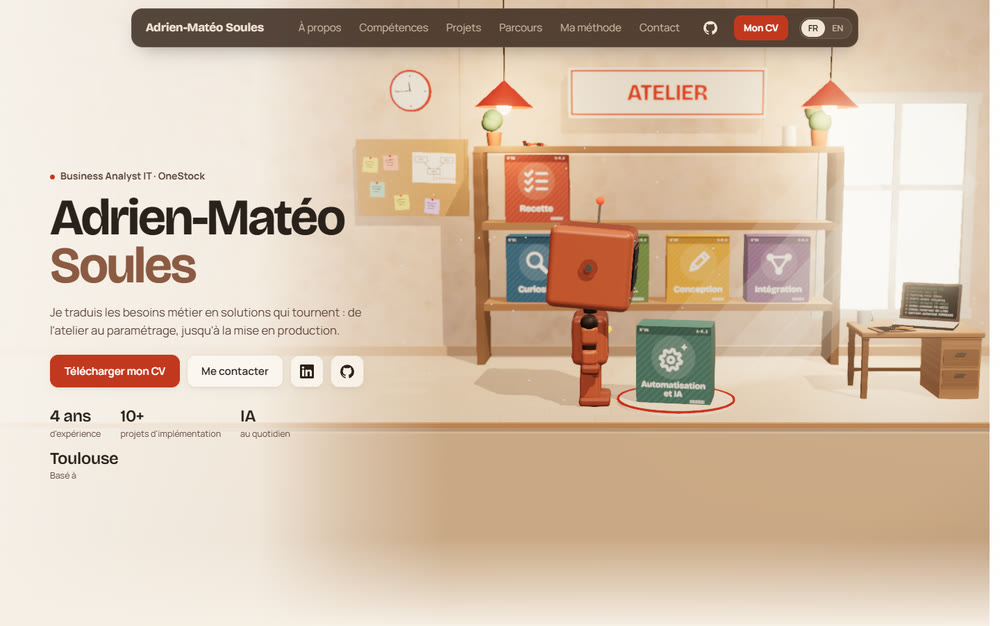
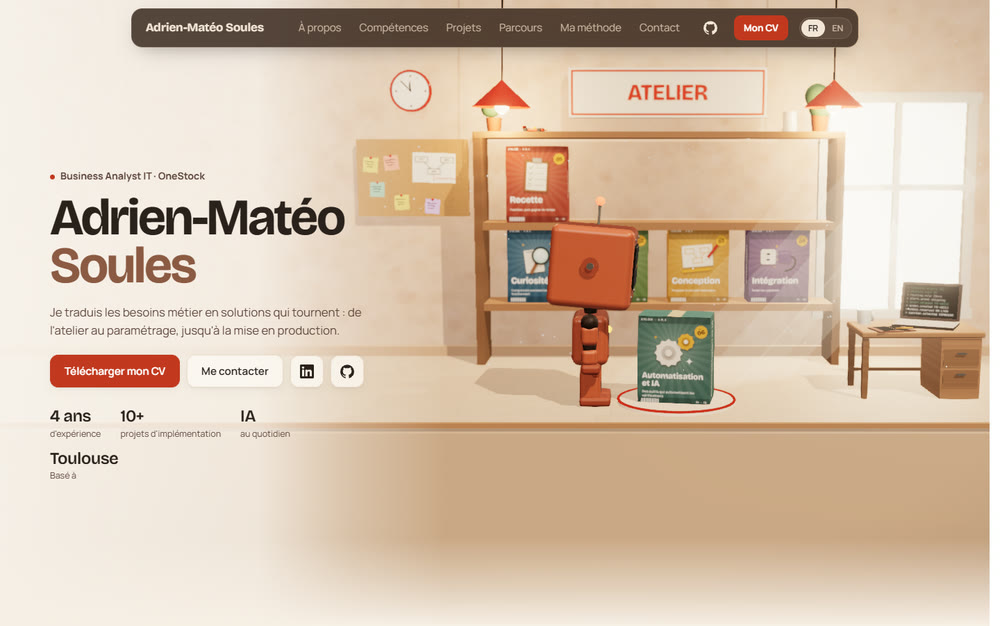
Accueil 3D : les boîtes-mots deviennent de vrais emballages
- Boîte plus haute (0,6 × 0,74 × 0,36) : face illustrée, tranche avec
  le nom à la verticale, dessus avec rabats et ruban kraft, grain de
  carton.
- 8 illustrations pleines (loupe, cible, plan, prise, porte-bloc,
  engrenages, bulles, mallette et code), rayons, badge « N°0x »,
  bandeau « ATELIER · A-M.S », code-barres.
- Une phrase sous chaque mot (hero.wordTags, FR/EN), reprise des
  textes existants du site.
- Étagère et plateau du haut remontés pour les boîtes plus hautes.
- Skill « atelier 3D » et images de partage mis à jour.

Changed region(s): [[0.465, 0.0911, 0.868, 0.6677], [0.868, 0.5767, 0.899, 0.607], [0.589, 0.3035, 0.62, 0.3339]]

diff --git a/js/comptoir.js b/js/comptoir.js
@@ -15,6 +15,8 @@ import { RectAreaLightUniformsLib } from "three/addons/lights/RectAreaLightUnifo
 const section = document.getElementById("top"), stage = document.getElementById("comptoir-stage"), copy = document.getElementById("comptoir-copy");
 const words = () => window.CONTENT[document.documentElement.lang === "en" ? "en" : "fr"].hero.words;
 let WORDS = words();
+const tags = () => window.CONTENT[document.documentElement.lang === "en" ? "en" : "fr"].hero.wordTags;
+let TAGS = tags();
 /* palette « Abricot » de la scène */
 const P = {
   bg: "#EBC9AE", hemi: ["#FFE7D2", "#B08A6C", .85], sun: ["#FFE2C4", 2.4], fill: "#F6C9AE", exposure: .95,
@@ -90,41 +92,6 @@ function wrap(ctx, text, maxW) {
 }
 const shade = (hex, k) => "#" + new THREE.Color(hex).multiplyScalar(k).getHexString();
 
-/* un pictogramme par mot, dessiné au trait blanc (même ordre que WORDS) */
-function drawIcon(ctx, i, cx, cy, s) {
-  ctx.save(); ctx.translate(cx, cy); ctx.scale(s / 100, s / 100);
-  ctx.strokeStyle = ctx.fillStyle = "#fff"; ctx.lineWidth = 9; ctx.lineCap = ctx.lineJoin = "round";
-  const P = () => ctx.beginPath(), dot = (x, y, r) => { P(); ctx.arc(x, y, r, 0, Math.PI * 2); ctx.fill(); };
-  if (i === 0) { /* curiosité : une loupe */
-    P(); ctx.arc(-10, -10, 28, 0, Math.PI * 2); ctx.stroke();
-    ctx.lineWidth = 15; P(); ctx.moveTo(11, 11); ctx.lineTo(38, 38); ctx.stroke();
-  } else if (i === 1) { /* cadrage : les coins du cadre et le point visé */
-    for (const [sx, sy] of [[-1, -1], [1, -1], [1, 1], [-1, 1]]) { P(); ctx.moveTo(sx * 42, sy * 16); ctx.lineTo(sx * 42, sy * 42); ctx.lineTo(sx * 16, sy * 42); ctx.stroke(); }
-    dot(0, 0, 10);
-  } else if (i === 2) { /* conception : un crayon */
-    ctx.rotate(Math.PI / 4);
-    P(); ctx.rect(-13, -44, 26, 62); ctx.stroke();
-    P(); ctx.moveTo(-13, 18); ctx.lineTo(0, 44); ctx.lineTo(13, 18); ctx.stroke();
-    P(); ctx.moveTo(-13, -28); ctx.lineTo(13, -28); ctx.stroke();
-  } else if (i === 3) { /* intégration : trois systèmes reliés */
-    const n = [[-36, -22], [36, -22], [0, 34]];
-    P(); n.forEach(([x, y], k) => (k ? ctx.lineTo(x, y) : ctx.moveTo(x, y))); ctx.closePath(); ctx.stroke();
-    n.forEach(([x, y]) => dot(x, y, 14));
-  } else if (i === 4) { /* recette : une liste cochée */
-    for (let k = 0; k < 3; k++) { const y = -30 + k * 30; P(); ctx.moveTo(-42, y); ctx.lineTo(-32, y + 9); ctx.lineTo(-16, y - 9); ctx.stroke(); P(); ctx.moveTo(2, y); ctx.lineTo(42, y); ctx.stroke(); }
-  } else if (i === 5) { /* automatisation et IA : un engrenage et une étincelle */
-    P(); for (let k = 0; k < 32; k++) { const a = (k + .5) * Math.PI / 16, r = [36, 36, 26, 26][k % 4]; const x = -8 + Math.cos(a) * r, y = 8 + Math.sin(a) * r; k ? ctx.lineTo(x, y) : ctx.moveTo(x, y); } ctx.closePath(); ctx.stroke();
-    P(); ctx.arc(-8, 8, 10, 0, Math.PI * 2); ctx.stroke();
-    P(); ctx.moveTo(36, -52); ctx.quadraticCurveTo(36, -36, 52, -36); ctx.quadraticCurveTo(36, -36, 36, -20); ctx.quadraticCurveTo(36, -36, 20, -36); ctx.quadraticCurveTo(36, -36, 36, -52); ctx.fill();
-  } else if (i === 6) { /* accompagnement : deux personnes côte à côte */
-    for (const [x, r, w] of [[-20, 15, 27], [22, 12, 22]]) { P(); ctx.arc(x, -16, r, 0, Math.PI * 2); ctx.stroke(); P(); ctx.arc(x, 38, w, Math.PI, 0); ctx.stroke(); }
-  } else { /* métier et technique : une mallette et des accolades */
-    P(); ctx.rect(-50, -8, 46, 36); ctx.stroke();
-    P(); ctx.moveTo(-37, -8); ctx.lineTo(-37, -20); ctx.lineTo(-17, -20); ctx.lineTo(-17, -8); ctx.stroke();
-    ctx.font = '600 66px "JetBrains Mono"'; ctx.textAlign = "center"; ctx.textBaseline = "middle"; ctx.fillText("{}", 28, 10);
-  }
-  ctx.restore();
-}
 
 /* ---------- décor : comptoir et étagère en bois clair ---------- */
 /* le dessus du comptoir en parquet clair */
@@ -145,7 +112,7 @@ const grain = HQ ? canvasTex(256, 256, (ctx, W, H) => { ctx.fillStyle = "#fff"; 
 if (grain) { grain.redraw(); grain.wrapS = grain.wrapT = THREE.RepeatWrapping; grain.repeat.set(2, 1); }
 const wood = std(P.wood[0], { roughness: .6, map: grain }), woodDark = std(P.wood[1], { map: grain });
 for (const y of BOARDS) mesh(new THREE.BoxGeometry(3.5, .07, .5), wood, 1.65, y - .035, SHELF_Z);
-for (const x of [-.12, 3.42]) mesh(new THREE.BoxGeometry(.08, 2.1, .5), woodDark, x, 1.05, SHELF_Z);
+for (const x of [-.12, 3.42]) mesh(new THREE.BoxGeometry(.08, 2.3, .5), woodDark, x, 1.15, SHELF_Z);
 const PAD = new THREE.Vector3(1.75, .015, .9);
 mesh(new THREE.CylinderGeometry(.48, .5, .03, 48), std(P.pad), PAD.x, .015, PAD.z);
 const ring = new THREE.Mesh(new THREE.TorusGeometry(.49, .012, 8, 64), new THREE.MeshBasicMaterial({ color: P.accent }));
@@ -169,7 +136,7 @@ mesh(new THREE.BoxGeometry(30, .3, .06), std(P.base), 1, -.05, WALL_Z + .03);
 
 const potMat = std(P.pot), leafMat = std(P.leaf, { roughness: .8 }), glassMat = std(P.jar, { roughness: .15, transparent: true, opacity: .7 });
 /* plateau en haut de l'étagère des mots, contre le mur : plantes et bocal (la F1 s'y cache aussi) */
-const TOP_Y = 2.1;
+const TOP_Y = 2.24; /* au-dessus des boîtes du rang du haut (1,42 + 0,74) */
 mesh(new THREE.BoxGeometry(3.6, .06, .52), wood, 1.65, TOP_Y + .03, SHELF_Z);
 function plant(x, s = 1) {
   mesh(new THREE.CylinderGeometry(.08 * s, .065 * s, .14 * s, 16), potMat, x, TOP_Y + .06 + .07 * s, SHELF_Z);
@@ -219,28 +186,127 @@ const lamps = [.2, 3.3].map(x => {
 });
 
 /* ---------- les boîtes-mots ---------- */
-const BOX = { w: .62, h: .66, d: .38 };
+/* ---------- emballages des boîtes-mots : illustration, badge, rayons, grain de carton ---------- */
+function cardGrain(ctx, W, H, a = .05) { for (let k = 0; k < W * H / 90; k++) { ctx.fillStyle = Math.random() < .5 ? `rgba(255,255,255,${a})` : `rgba(0,0,0,${a})`; ctx.fillRect(Math.random() * W, Math.random() * H, 1.5, 1.5); } }
+function sunburst(ctx, cx, cy, r, n, col) { ctx.save(); ctx.fillStyle = col; for (let k = 0; k < n; k++) { const a = k / n * Math.PI * 2; ctx.beginPath(); ctx.moveTo(cx, cy); ctx.arc(cx, cy, r, a, a + Math.PI / n); ctx.closePath(); ctx.fill(); } ctx.restore(); }
+function badge(ctx, x, y, r, n) {
+  ctx.save(); ctx.translate(x, y); ctx.rotate(-.22);
+  ctx.beginPath(); for (let k = 0; k < 32; k++) { const a = k / 32 * Math.PI * 2, rr = k % 2 ? r * .9 : r; ctx.lineTo(Math.cos(a) * rr, Math.sin(a) * rr); } ctx.closePath();
+  ctx.fillStyle = "#F0B429"; ctx.shadowColor = "rgba(0,0,0,.25)"; ctx.shadowBlur = 8; ctx.shadowOffsetY = 3; ctx.fill(); ctx.shadowColor = "transparent";
+  ctx.fillStyle = "#2A211C"; ctx.textAlign = "center"; ctx.textBaseline = "middle";
+  ctx.font = '600 15px "JetBrains Mono"'; ctx.fillText("N°", 0, -r * .38);
+  ctx.font = '800 44px "Bricolage Grotesque"'; ctx.fillText(String(n).padStart(2, "0"), 0, r * .12);
+  ctx.restore();
+}
+function sparkle(ctx, x, y, r, col = "#F0B429") { ctx.fillStyle = col; ctx.beginPath(); ctx.moveTo(x, y - r * 2); ctx.quadraticCurveTo(x, y, x + r * 2, y); ctx.quadraticCurveTo(x, y, x, y + r * 2); ctx.quadraticCurveTo(x, y, x - r * 2, y); ctx.quadraticCurveTo(x, y, x, y - r * 2); ctx.fill(); }
+
+/* une illustration par mot, dans l'ordre de hero.words : objets pleins, ombres portées, palette abricot */
+function illus(ctx, i, cx, cy, s, color) {
+  ctx.save(); ctx.translate(cx, cy); ctx.scale(s, s);
+  const ink = "#2A211C", cream = "#FBF3E6", wood = "#9C6B45", woodDark = "#6E4A30", yellow = "#F0B429", brick = "#C2381F", sage = "#7FAF8A", steel = "#B9B3AA";
+  const shadow = () => { ctx.shadowColor = "rgba(30,15,5,.35)"; ctx.shadowBlur = 18; ctx.shadowOffsetY = 10; }, flat = () => { ctx.shadowColor = "transparent"; };
+  const rr = (x, y, w, h, r, c) => { ctx.fillStyle = c; ctx.beginPath(); ctx.roundRect(x, y, w, h, r); ctx.fill(); };
+  const lines = (x, y, n, w, gap, c) => { ctx.fillStyle = c; for (let k = 0; k < n; k++) ctx.fillRect(x, y + k * gap, k % 3 === 2 ? w * .6 : w, 4); };
+  if (i === 0) { /* curiosité : une loupe sur une feuille de notes */
+    ctx.save(); ctx.rotate(-.12); shadow(); rr(-120, -70, 170, 210, 6, cream); flat(); lines(-100, -40, 8, 130, 22, "rgba(90,64,56,.35)"); ctx.fillStyle = color; ctx.fillRect(-100, -58, 60, 8); ctx.restore();
+    ctx.save(); ctx.translate(30, -10); ctx.rotate(.5);
+    shadow(); rr(-14, 70, 28, 120, 14, wood); flat(); ctx.fillStyle = woodDark; ctx.fillRect(-16, 70, 32, 16);
+    shadow(); ctx.fillStyle = ink; ctx.beginPath(); ctx.arc(0, 0, 82, 0, Math.PI * 2); ctx.fill(); flat();
+    const g = ctx.createRadialGradient(-22, -22, 8, 0, 0, 72); g.addColorStop(0, "#FFFFFF"); g.addColorStop(.6, "#E4F2EE"); g.addColorStop(1, "#BFDCD5");
+    ctx.fillStyle = g; ctx.beginPath(); ctx.arc(0, 0, 68, 0, Math.PI * 2); ctx.fill();
+    ctx.strokeStyle = "rgba(255,255,255,.95)"; ctx.lineWidth = 9; ctx.lineCap = "round"; ctx.beginPath(); ctx.arc(0, 0, 50, Math.PI * 1.1, Math.PI * 1.45); ctx.stroke();
+    ctx.restore();
+    sparkle(ctx, -130, -110, 9); sparkle(ctx, 120, -120, 6); sparkle(ctx, 140, 40, 7);
+  } else if (i === 1) { /* cadrage : une cible et une fléchette, dans un cadre de visée */
+    shadow(); for (const [r, c] of [[110, cream], [84, color], [60, cream], [36, brick], [14, cream]]) { ctx.fillStyle = c; ctx.beginPath(); ctx.arc(0, 0, r, 0, Math.PI * 2); ctx.fill(); if (r === 110) flat(); }
+    ctx.save(); ctx.rotate(-.75); shadow(); ctx.fillStyle = wood; ctx.fillRect(-4, -150, 8, 140); flat();
+    ctx.fillStyle = brick; ctx.beginPath(); ctx.moveTo(0, -150); ctx.lineTo(-22, -185); ctx.lineTo(0, -172); ctx.lineTo(22, -185); ctx.closePath(); ctx.fill(); ctx.restore();
+    ctx.strokeStyle = cream; ctx.lineWidth = 10; ctx.lineCap = "round";
+    for (const [sx, sy] of [[-1, -1], [1, -1], [1, 1], [-1, 1]]) { ctx.beginPath(); ctx.moveTo(sx * 150, sy * 100); ctx.lineTo(sx * 150, sy * 150); ctx.lineTo(sx * 100, sy * 150); ctx.stroke(); }
+  } else if (i === 2) { /* conception : un plan dessiné, une règle et un crayon */
+    ctx.save(); ctx.rotate(-.08); shadow(); rr(-150, -110, 280, 200, 6, cream); flat();
+    ctx.strokeStyle = color; ctx.lineWidth = 6; ctx.fillStyle = "rgba(0,0,0,0)";
+    for (const [x, y] of [[-120, -80], [20, -80], [-50, 10]]) { ctx.strokeRect(x, y, 80, 46); }
+    ctx.beginPath(); ctx.moveTo(-40, -34); ctx.lineTo(-20, 10); ctx.moveTo(60, -34); ctx.lineTo(20, 10); ctx.stroke(); ctx.restore();
+    ctx.save(); ctx.translate(-10, 120); ctx.rotate(-.1); shadow(); rr(-140, -14, 260, 28, 4, yellow); flat(); ctx.fillStyle = woodDark; for (let k = 0; k < 16; k++) ctx.fillRect(-130 + k * 16, -14, 3, k % 2 ? 10 : 16); ctx.restore();
+    ctx.save(); ctx.translate(120, -40); ctx.rotate(.65); shadow(); rr(-12, -110, 24, 170, 4, brick); flat(); rr(-12, -128, 24, 20, 6, "#F4A7A0"); ctx.fillStyle = cream; ctx.beginPath(); ctx.moveTo(-12, 60); ctx.lineTo(0, 92); ctx.lineTo(12, 60); ctx.fill(); ctx.fillStyle = ink; ctx.beginPath(); ctx.moveTo(-4, 82); ctx.lineTo(0, 92); ctx.lineTo(4, 82); ctx.fill(); ctx.restore();
+  } else if (i === 3) { /* intégration : une prise branchée sur son socle, et l'étincelle du contact */
+    shadow(); rr(-170, -70, 140, 140, 22, cream); flat(); ctx.fillStyle = ink; for (const y of [-26, 26]) { ctx.beginPath(); ctx.roundRect(-118, y - 9, 34, 18, 6); ctx.fill(); }
+    ctx.strokeStyle = ink; ctx.lineWidth = 14; ctx.lineCap = "round"; ctx.beginPath(); ctx.moveTo(110, 0); ctx.bezierCurveTo(170, 0, 170, 120, 60, 130); ctx.stroke();
+    shadow(); rr(-12, -56, 120, 112, 20, color); flat(); ctx.fillStyle = steel; for (const y of [-26, 26]) ctx.fillRect(-34, y - 6, 28, 12);
+    ctx.fillStyle = "rgba(255,255,255,.25)"; ctx.fillRect(10, -40, 80, 10);
+    sparkle(ctx, -24, -96, 11); sparkle(ctx, -40, 90, 7);
+  } else if (i === 4) { /* recette : un porte-bloc et sa liste cochée */
+    ctx.save(); ctx.rotate(.06); shadow(); rr(-110, -140, 220, 290, 14, wood); flat(); rr(-92, -112, 184, 246, 4, cream);
+    shadow(); rr(-42, -156, 84, 40, 10, steel); flat();
+    for (let k = 0; k < 4; k++) { const y = -70 + k * 52; ctx.strokeStyle = k === 3 ? "rgba(90,64,56,.35)" : sage; ctx.lineWidth = 9; ctx.lineCap = "round"; ctx.lineJoin = "round";
+      if (k < 3) { ctx.beginPath(); ctx.moveTo(-70, y); ctx.lineTo(-56, y + 14); ctx.lineTo(-34, y - 12); ctx.stroke(); } else { ctx.strokeRect(-72, y - 12, 26, 26); }
+      ctx.fillStyle = "rgba(90,64,56,.4)"; ctx.fillRect(-14, y - 2, k % 2 ? 80 : 100, 6); }
+    ctx.restore();
+  } else if (i === 5) { /* automatisation et IA : deux engrenages et une étincelle */
+    const gear = (x, y, r, teeth, c) => { ctx.save(); ctx.translate(x, y); ctx.fillStyle = c; ctx.beginPath();
+      for (let k = 0; k < teeth * 2; k++) { const a = k / (teeth * 2) * Math.PI * 2, rad = k % 2 ? r : r * 1.18; ctx.lineTo(Math.cos(a) * rad, Math.sin(a) * rad); } ctx.closePath(); ctx.fill();
+      ctx.fillStyle = "rgba(0,0,0,.15)"; ctx.beginPath(); ctx.arc(0, 0, r * .62, 0, Math.PI * 2); ctx.fill(); ctx.fillStyle = cream; ctx.beginPath(); ctx.arc(0, 0, r * .3, 0, Math.PI * 2); ctx.fill(); ctx.restore(); };
+    shadow(); gear(-40, 20, 92, 12, cream); flat(); shadow(); gear(92, -70, 56, 9, yellow); flat();
+    sparkle(ctx, 120, 80, 16, "#FFFFFF"); sparkle(ctx, -140, -100, 9);
+  } else if (i === 6) { /* accompagnement : une conversation, deux bulles */
+    shadow(); rr(-170, -110, 220, 130, 30, cream); flat(); ctx.fillStyle = cream; ctx.beginPath(); ctx.moveTo(-120, 18); ctx.lineTo(-140, 70); ctx.lineTo(-80, 18); ctx.fill();
+    lines(-140, -76, 3, 150, 28, "rgba(90,64,56,.35)");
+    shadow(); rr(-40, 0, 210, 120, 30, yellow); flat(); ctx.fillStyle = yellow; ctx.beginPath(); ctx.moveTo(120, 118); ctx.lineTo(150, 165); ctx.lineTo(80, 118); ctx.fill();
+    ctx.fillStyle = ink; for (const x of [25, 65, 105]) { ctx.beginPath(); ctx.arc(x, 60, 11, 0, Math.PI * 2); ctx.fill(); }
+  } else { /* métier et technique : une mallette et un écran de code */
+    ctx.save(); ctx.rotate(.05); shadow(); rr(-30, -150, 200, 150, 12, ink); flat(); rr(-18, -138, 176, 126, 6, "#3A2A22");
+    ctx.fillStyle = sage; ctx.font = '600 22px "JetBrains Mono"'; ctx.textAlign = "left"; ctx.textBaseline = "top";
+    ["{", '  "flux": "ok",', '  "api": 201', "}"].forEach((l, k) => ctx.fillText(l, -6, -128 + k * 28)); ctx.restore();
+    shadow(); rr(-170, -30, 220, 160, 16, wood); flat();
+    rr(-110, -60, 100, 40, 14, "rgba(0,0,0,0)"); ctx.strokeStyle = woodDark; ctx.lineWidth = 12; ctx.beginPath(); ctx.roundRect(-104, -58, 88, 36, 12); ctx.stroke();
+    ctx.fillStyle = woodDark; ctx.fillRect(-170, 30, 220, 8); rr(-72, 20, 24, 30, 4, yellow);
+  }
+  ctx.restore();
+}
+
+/* ---------- les boîtes-mots : un vrai emballage (face, tranches, dessus scotché) ---------- */
+const BOX = { w: .6, h: .74, d: .36 };
 const boxes = WORDS.map((word, i) => {
   const color = COLORS[i];
-  const tex = canvasTex(512, 545, (ctx, W, H) => {
+  const face = canvasTex(512, 632, (ctx, W, H) => {
     ctx.fillStyle = color; ctx.fillRect(0, 0, W, H);
-    ctx.fillStyle = "rgba(255,255,255,.07)"; for (let s = -H; s < W; s += 46) { ctx.beginPath(); ctx.moveTo(s, H); ctx.lineTo(s + H, 0); ctx.lineTo(s + H + 18, 0); ctx.lineTo(s + 18, H); ctx.fill(); }
-    ctx.fillStyle = "rgba(0,0,0,.18)"; ctx.fillRect(0, 0, W, 58);
-    ctx.fillStyle = "#fff"; ctx.font = '600 26px "JetBrains Mono"'; ctx.textBaseline = "middle";
-    ctx.textAlign = "left"; ctx.fillText("N°0" + (i + 1), 24, 30); ctx.textAlign = "right"; ctx.fillText("A-M.S", W - 24, 30);
-    ctx.beginPath(); ctx.arc(W / 2, H * .39, 150, 0, Math.PI * 2); ctx.fillStyle = "rgba(255,255,255,.14)"; ctx.fill();
-    drawIcon(ctx, i, W / 2, H * .39, 205);
-    let size = 76, lines;
-    do { ctx.font = `800 ${size}px "Bricolage Grotesque"`; lines = wrap(ctx, WORDS[i], W - 56); size -= 3; }
-    while ((lines.length > 2 || lines.some(l => ctx.measureText(l).width > W - 56)) && size > 34);
-    const lh = size * 1.04, top = H * .8 - (lines.length - 1) * lh / 2;
-    ctx.fillStyle = "#fff"; ctx.textAlign = "center"; ctx.textBaseline = "middle"; lines.forEach((l, k) => ctx.fillText(l, W / 2, top + k * lh));
-    for (let b = 0; b < 20; b++) ctx.fillRect(W - 140 + b * 5, H - 44, b % 3 ? 3 : 2, 24);
+    const lg = ctx.createRadialGradient(W / 2, H * .38, 20, W / 2, H * .38, W * .75); lg.addColorStop(0, "rgba(255,240,220,.28)"); lg.addColorStop(1, "rgba(0,0,0,.12)"); ctx.fillStyle = lg; ctx.fillRect(0, 0, W, H);
+    sunburst(ctx, W / 2, H * .38, W, 28, "rgba(255,255,255,.06)");
+    ctx.fillStyle = "rgba(0,0,0,.2)"; ctx.fillRect(0, 0, W, 50);
+    ctx.fillStyle = "rgba(255,255,255,.9)"; ctx.font = '600 20px "JetBrains Mono"'; ctx.textAlign = "left"; ctx.textBaseline = "middle"; ctx.fillText("ATELIER · A-M.S", 22, 26);
+    illus(ctx, i, W / 2, H * .38, .92, color);
+    badge(ctx, W - 66, 104, 48, i + 1);
+    ctx.fillStyle = "#fff"; ctx.textAlign = "left"; ctx.textBaseline = "alphabetic";
+    ctx.shadowColor = "rgba(0,0,0,.25)"; ctx.shadowBlur = 6; ctx.shadowOffsetY = 3;
+    let size = 78, lines; do { ctx.font = `800 ${size}px "Bricolage Grotesque"`; lines = wrap(ctx, WORDS[i], W - 60); size -= 3; } while ((lines.length > 2 || lines.some(l => ctx.measureText(l).width > W - 60)) && size > 40);
+    const top = lines.length > 1 ? H * .7 : H * .74;
+    lines.forEach((l, k) => ctx.fillText(l, 30, top + k * size));
+    ctx.shadowColor = "transparent";
+    ctx.font = '700 25px "Manrope"'; ctx.fillStyle = "rgba(255,255,255,.9)"; wrap(ctx, TAGS[i], W - 60).slice(0, 2).forEach((l, k) => ctx.fillText(l, 30, top + lines.length * size - 8 + k * 30));
+    ctx.fillStyle = "rgba(0,0,0,.18)"; ctx.fillRect(0, H - 54, W, 54);
+    ctx.fillStyle = "#fff"; for (let k = 0; k < 26; k++) ctx.fillRect(24 + k * 5, H - 44, k % 3 ? 3 : 2, 34);
+    ctx.font = '600 18px "JetBrains Mono"'; ctx.textAlign = "right"; ctx.textBaseline = "middle"; ctx.fillText("FR · EN", W - 22, H - 26);
+    cardGrain(ctx, W, H);
   });
-  const side = std(shade(color, .8)), top = std(shade(color, 1.12));
-  const m = mesh(new THREE.BoxGeometry(BOX.w, BOX.h, BOX.d), [side, side, top, side, std("#fff", { map: tex, roughness: .55 }), side], 0, -10, 0);
+  const side = canvasTex(256, 632, (ctx, W, H) => {
+    ctx.fillStyle = shade(color, .82); ctx.fillRect(0, 0, W, H);
+    ctx.save(); ctx.translate(W / 2, H / 2); ctx.rotate(-Math.PI / 2); ctx.fillStyle = "rgba(255,255,255,.92)"; ctx.textAlign = "center"; ctx.textBaseline = "middle";
+    let size = 64; do { ctx.font = `800 ${size}px "Bricolage Grotesque"`; size -= 3; } while (ctx.measureText(WORDS[i]).width > H - 60 && size > 30);
+    ctx.fillText(WORDS[i], 0, -14); ctx.font = '600 22px "JetBrains Mono"'; ctx.fillStyle = "rgba(255,255,255,.7)"; ctx.fillText("N°0" + (i + 1) + " · ATELIER", 0, 46); ctx.restore();
+    cardGrain(ctx, W, H);
+  });
+  const lid = canvasTex(512, 256, (ctx, W, H) => {
+    ctx.fillStyle = shade(color, 1.08); ctx.fillRect(0, 0, W, H);
+    ctx.fillStyle = "rgba(0,0,0,.18)"; ctx.fillRect(0, H / 2 - 2, W, 4);                       // jointure des rabats
+    ctx.fillStyle = "rgba(214,190,150,.92)"; ctx.fillRect(W / 2 - 50, 0, 100, H);              // ruban adhésif kraft
+    ctx.fillStyle = "rgba(255,255,255,.12)"; ctx.fillRect(W / 2 - 50, 0, 10, H);
+    cardGrain(ctx, W, H, .06);
+  });
+  const sideMat = std("#fff", { map: side, roughness: .75 }), back = std(shade(color, .78), { roughness: .75 });
+  const m = mesh(new THREE.BoxGeometry(BOX.w, BOX.h, BOX.d), [sideMat, sideMat, std("#fff", { map: lid, roughness: .7 }), back, std("#fff", { map: face, roughness: .55 }), back], 0, -10, 0);
   m.visible = false;
-  m.userData = { i, tex };
+  m.userData = { i, tex: face, texs: [face, side, lid] };
   return m;
 });
 const slotPos = n => new THREE.Vector3(SLOT_X[n % 4], BOARDS[n < 4 ? 0 : 1] + BOX.h / 2, SHELF_Z);
@@ -709,10 +775,10 @@ function frame() {
 
 /* les étiquettes attendent les polices pour être nettes */
 await Promise.all(['800 40px "Bricolage Grotesque"', '600 20px "JetBrains Mono"'].map(f => document.fonts.load(f)));
-boxes.forEach(b => b.userData.tex.redraw());
+boxes.forEach(b => b.userData.texs.forEach(t => t.redraw()));
 [signTex, eyeTex, corkTex, schemaTex, clockTex, screenTex].forEach(tex => tex.redraw());
 /* changement de langue : les étiquettes des boîtes se redessinent */
-new MutationObserver(() => { WORDS = words(); boxes.forEach(b => b.userData.tex.redraw()); }).observe(document.documentElement, { attributes: true, attributeFilter: ["lang"] });
+new MutationObserver(() => { WORDS = words(); TAGS = tags(); boxes.forEach(b => b.userData.texs.forEach(t => t.redraw())); }).observe(document.documentElement, { attributes: true, attributeFilter: ["lang"] });
 resize();
 frame();
 setTimeout(start, RM ? 0 : 700);

diff --git a/js/content.js b/js/content.js
@@ -58,6 +58,16 @@ window.CONTENT = {
         "Accompagnement",
         "Métier et technique"
       ],
+      "wordTags": [
+        "Comprendre comment les choses fonctionnent",
+        "Aligner les équipes",
+        "Proposer la solution technique",
+        "Relier les systèmes",
+        "Fiabiliser, puis gagner du temps",
+        "Des outils qui automatisent les vérifications",
+        "Du premier atelier à l'hypercare",
+        "Un profil double"
+      ],
       "thread": [
         "besoin métier",
         "cadrage",
@@ -1097,6 +1107,16 @@ window.CONTENT = {
         "Automation and AI",
         "Support",
         "Business and tech"
+      ],
+      "wordTags": [
+        "Understand how things really work",
+        "Align the teams",
+        "Propose the technical solution",
+        "Connect the systems",
+        "Make it reliable, then save time",
+        "Internal tools that automate checks",
+        "From the first workshop to hypercare",
+        "A twofold profile"
       ],
       "thread": [
         "business need",

diff --git a/.claude/skills/atelier-3d/SKILL.md b/.claude/skills/atelier-3d/SKILL.md
@@ -14,6 +14,7 @@ La scène du haut de page est en Three.js (0.170, importmap dans `index.html`) e
 3. **Palette Abricot.** Constantes `P` en tête de fichier : mur `#EFCFB6`, bois `#B98A62`, robot terre cuite `#C8663F`, accent brique `#C2381F`, encre `#2A211C`. Boîtes : `COLORS`. Pas de bleu-gris, pas de noir pur.
 4. **Robot artisan.** Silhouette cube terre cuite, peinture laquée (`MeshPhysicalMaterial` avec `clearcoat`), écran-visière, yeux dessinés sur `eyeTex` avec des humeurs (`setMood` : neutral, focus, happy, surprise), antenne et voyant lumineux. Pas de tablier, pas de plaque sur la tête (refusés par le propriétaire du site).
 5. **Pas de glyphes Unicode** comme icônes : les pictogrammes sont dessinés au canvas.
+7. **Les boîtes sont de vrais emballages** (validé par le propriétaire) : boîte 0,6 × 0,74 × 0,36, face avec illustration pleine (`illus`, une par mot, dans l'ordre de `hero.words`), rayons, badge jaune « N°0x », bandeau « ATELIER · A-M.S », nom, phrase (`hero.wordTags`, FR/EN), code-barres ; tranche avec le nom à la verticale ; dessus avec rabats et ruban kraft ; grain de carton (`cardGrain`). Prototype de comparaison : `.claude/proto-boites.html`.
 6. **Accessibilité.** `prefers-reduced-motion` : étagère déjà remplie, rien ne bouge. La région `#comptoir-live` annonce les mots. La scène est `aria-hidden`.
 
 ## Qualité et performance
